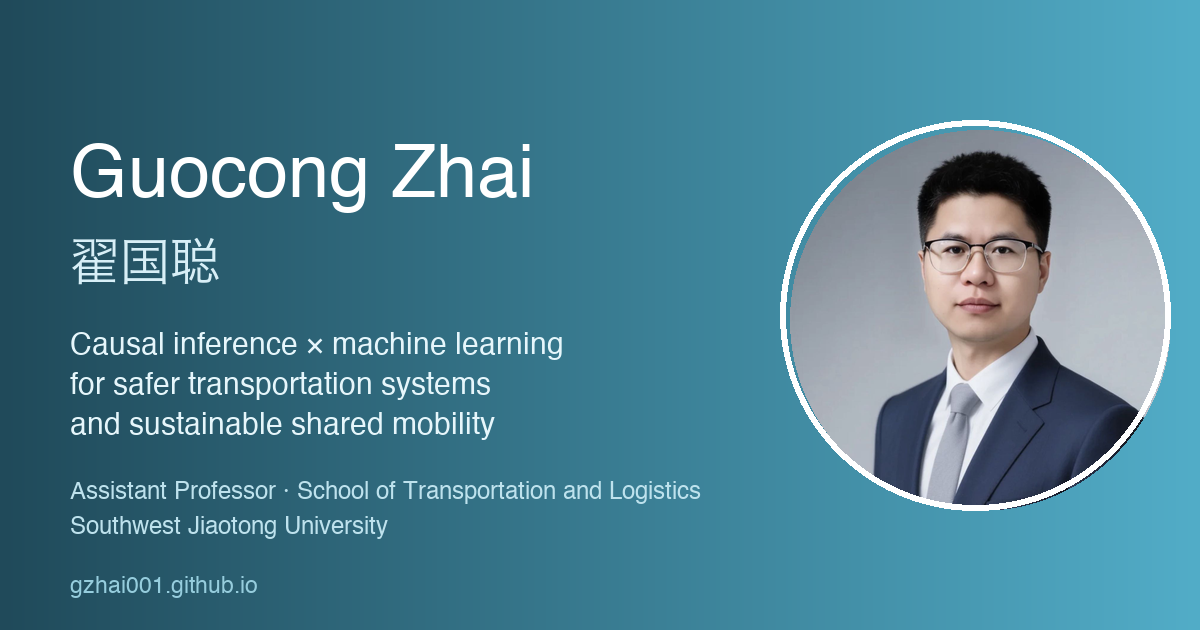
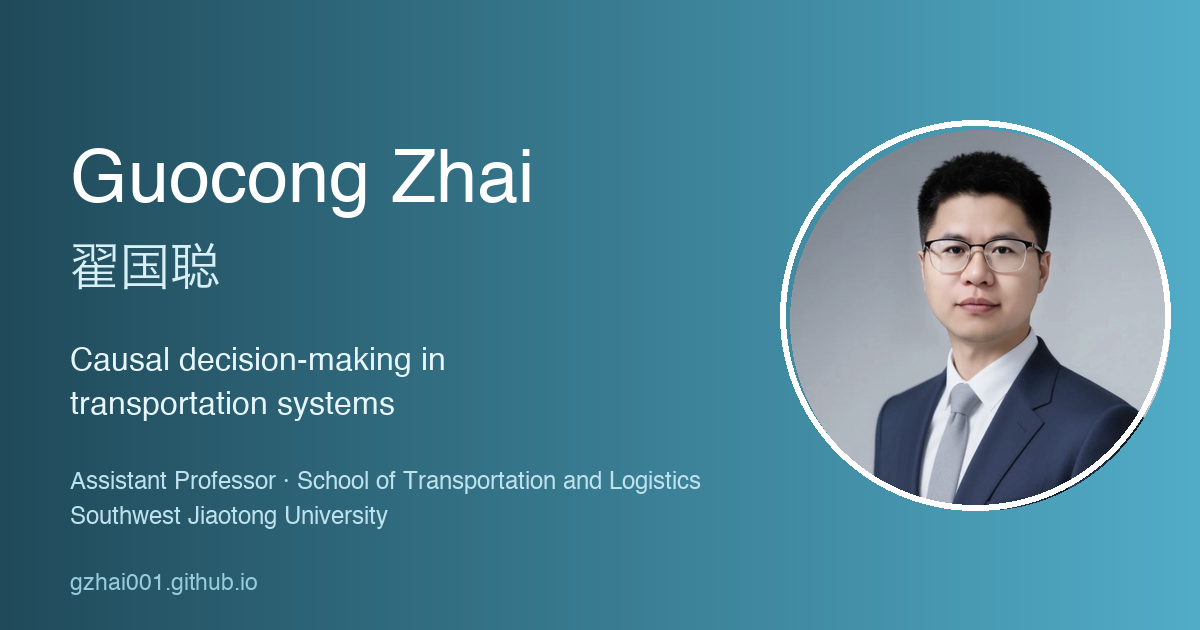
Reframe research story as causal decision-making; split 2026 news into per-paper items
- Tagline/bio/research intro now lead with 'causal decision-making in
  transportation systems' (mirrors MoE talent program title)
- 2026 news bullet split into one entry per published paper
- Sidebar bio and OG share image updated to match new framing

diff --git a/_pages/about.md b/_pages/about.md
@@ -7,9 +7,9 @@ redirect_from:
   - /about.html
 ---
 
-<p class="gz-tagline">Causal inference × machine learning for safer transportation systems and sustainable shared mobility.</p>
+<p class="gz-tagline">Causal decision-making in transportation systems: what safety policies actually work, and why people choose the mobility options they do.</p>
 
-I am an Assistant Professor in the School of Transportation and Logistics at Southwest Jiaotong University, Chengdu, China. My research develops **causal inference and machine learning methods** to answer a deceptively simple question: *what actually works to make transportation safer and mobility more sustainable?* From citywide speed-limit policies and ride-hailing safety to shared e-scooter pricing and taxi–metro competition, I build the statistical machinery — propensity scores, difference-in-differences, doubly robust estimation, Bayesian additive regression trees, and large language models — that turns observational data into credible, decision-ready evidence.
+I am an Assistant Professor in the School of Transportation and Logistics at Southwest Jiaotong University, Chengdu, China. My research develops **causal inference and machine learning methods** for causal decision-making in transportation systems — on one side, measuring which safety policies and designs actually work, from citywide speed limits and equity-aware crash hotspots to ride-hailing operations and generative-AI safety testing; on the other, understanding why travelers choose the mobility options they do, from ride-hailing and shared e-scooters to urban air mobility. The throughline is the statistical machinery — propensity scores, difference-in-differences, doubly robust estimation, Bayesian additive regression trees, and large language models — that turns observational data into credible, decision-ready evidence.
 
 I received my Ph.D. in Transportation Engineering from Old Dominion University, USA (advisor: [Dr. Kun Xie](http://www.transinformatics.com/), Transportation Informatics Lab), and was a Research Fellow at the National University of Singapore (mentors: [Dr. Prateek Bansal](https://behaviourscience.org/), BeCoS Lab, and [Dr. Ghim Ping Raymond Ong](https://cde.nus.edu.sg/cee/staff/ong-ghim-ping-raymond/)). I am Principal Investigator of the **NSFC Young Scientists Fund** (2026–2028) and the **Ministry of Education Overseas Postdoctoral Talent Program** (2027–2029).
 
@@ -41,7 +41,11 @@ Research Themes
 News
 ------
 <ul class="gz-news">
-  <li><span class="gz-when">2026</span> — Five journal papers published: safety-critical scenario generation (<i>TR Part C</i>), taxi–metro competition (<i>TR Part D</i>), causal inference in conjoint analysis (<i>J. Choice Modelling</i>), and urban air mobility &amp; bike-and-ride choice behavior (<i>Travel Behaviour and Society</i> ×2).</li>
+  <li><span class="gz-when">2026</span> — “Generating realistic safety-critical scenarios for vehicle–pedestrian interactions” published in <i>Transportation Research Part C</i>.</li>
+  <li><span class="gz-when">2026</span> — “Modeling taxi-metro competition: Uncovering nonlinear influences of trip and built environment factors” published in <i>Transportation Research Part D</i>.</li>
+  <li><span class="gz-when">2026</span> — “Causal inference in conjoint analysis: Logit models vs. potential outcomes” published in the <i>Journal of Choice Modelling</i>.</li>
+  <li><span class="gz-when">2026</span> — “Choice preferences for urban air mobility” published in <i>Travel Behaviour and Society</i>.</li>
+  <li><span class="gz-when">2026</span> — “Exploring different patterns of bike-and-ride trips and influencing factors” published in <i>Travel Behaviour and Society</i>.</li>
   <li><span class="gz-when">2025</span> — Awarded the <b>NSFC Young Scientists Fund</b> as Principal Investigator (2026–2028) and selected for the <b>Ministry of Education Overseas Postdoctoral Talent Program</b> (2027–2029).</li>
   <li><span class="gz-when">2025</span> — Joined the School of Transportation and Logistics, Southwest Jiaotong University, as an Assistant Professor.</li>
   <li><span class="gz-when">2025</span> — Serving as Guest Editor for the <i>Transportation Research Part D</i> special issue on “AI-Driven Behavioral Analytics for Sustainable Shared Mobility.”</li>

diff --git a/_pages/research.md b/_pages/research.md
@@ -5,7 +5,7 @@ permalink: /research/
 author_profile: true
 ---
 
-My research applies **causal inference and machine learning** to pressing transportation problems, organized around two complementary themes: learning *what works* for safety, and learning *why people choose* the mobility options they do. The common thread is a commitment to credible inference — methods that separate real policy and design effects from confounding, and models of behavior that remain interpretable at the moment of decision-making.
+My research enables **causal decision-making in transportation systems**, organized around two complementary questions: which safety policies and designs *actually work*, and *why travelers choose* the mobility options they do. Across both themes, the common thread is credible inference — methods that separate real policy and design effects from confounding, and models of behavior that remain interpretable at the moment of decision-making.
 
 <img class="gz-fig" src="/images/hero-pipeline.svg" alt="Research overview: crash records, behavioral big data, and stated choices feed causal inference and machine learning methods — propensity scores, difference-in-differences, doubly robust estimation, Bayesian ML, choice models, and LLMs — which inform safer transportation systems and sustainable shared mobility" width="100%">
 <p class="gz-figcap">From multimodal data to decisions: causal inference × machine learning across both research themes.</p>
